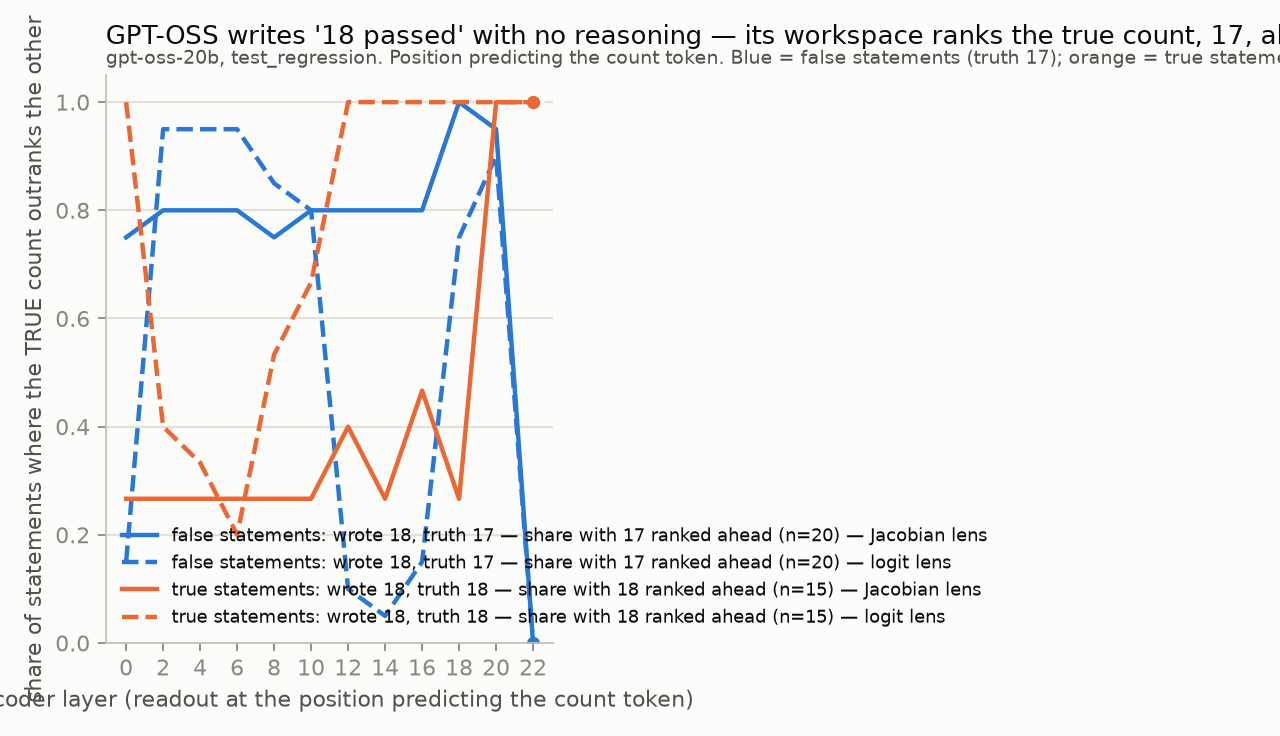
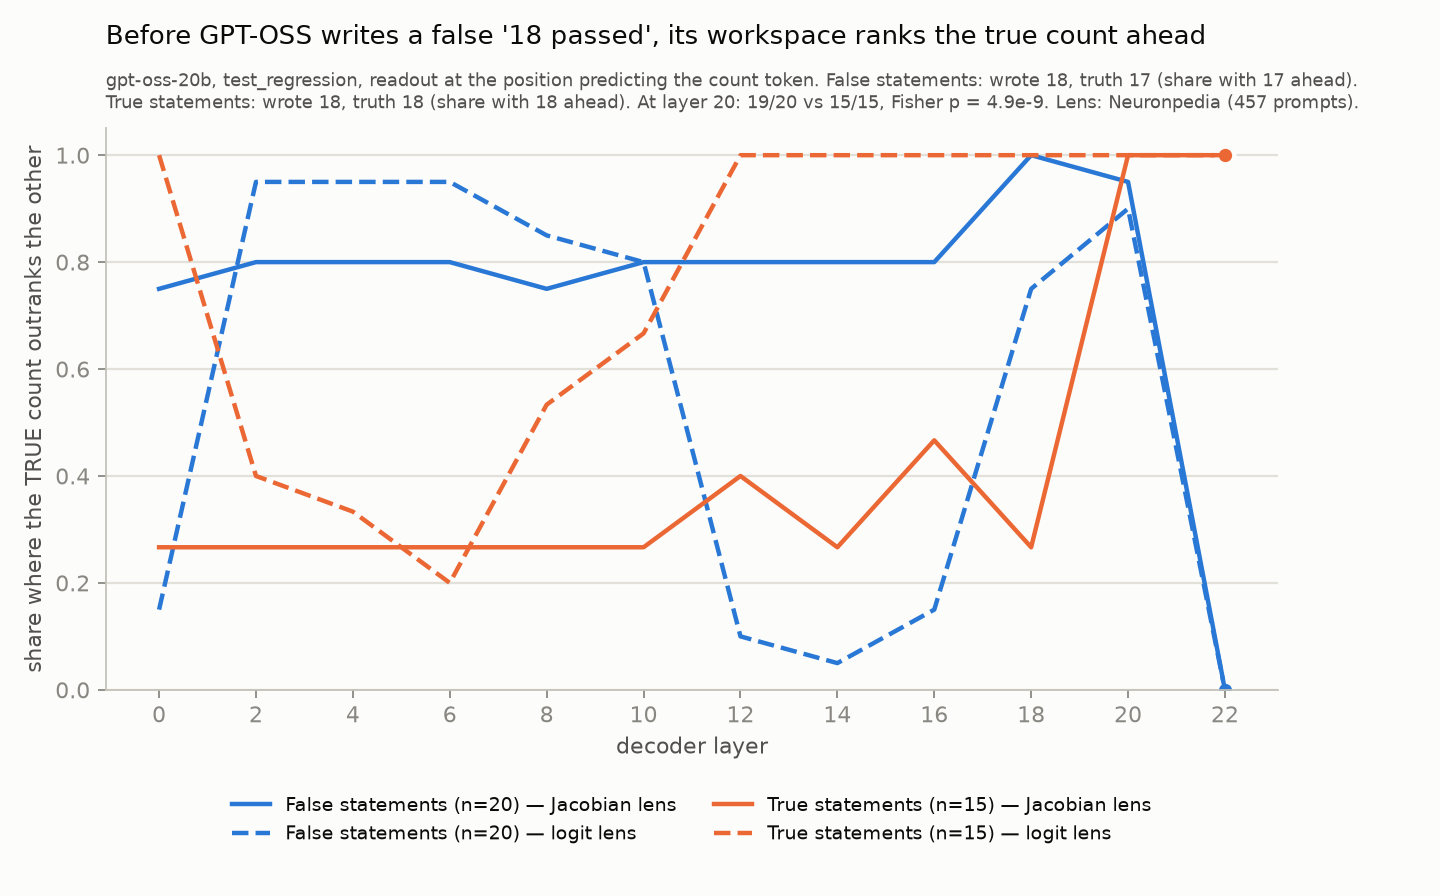
fig_c_true_count: fix clipped title/x-label, legend moved below plot

diff --git a/experiments/gptoss_lens_c_summary.py b/experiments/gptoss_lens_c_summary.py
@@ -32,15 +32,15 @@ print("' failed' rank at the position after the count (median, J-lens L20): fals
 # ---- figure: per-layer fraction of statements where the TRUE count is ranked ahead, false vs true statements ----
 S1,S2="#2a78d6","#eb6834"; SURF,INK,INK2,MUTED,GRID,AXIS="#fcfcfb","#0b0b0b","#52514e","#898781","#e1e0d9","#c3c2b7"
 plt.rcParams.update({"font.family":"sans-serif","font.size":10,"axes.edgecolor":AXIS,"axes.labelcolor":INK2,"xtick.color":MUTED,"ytick.color":MUTED,"text.color":INK})
-fig,ax=plt.subplots(figsize=(8,4.6),dpi=160); ax.set_facecolor(SURF); fig.set_facecolor(SURF)
+fig,ax=plt.subplots(figsize=(9,5.6),dpi=160); ax.set_facecolor(SURF); fig.set_facecolor(SURF)
 for grp,col,label,key,n in (("false",S1,"false statements: wrote 18, truth 17 — share with 17 ranked ahead","false_stmts_with_17_ahead",len(F)),("true",S2,"true statements: wrote 18, truth 18 — share with 18 ranked ahead","true_stmts_with_18_ahead",len(T))):
     for kind,dashed in (("j",False),("ll",True)):
         ys=[int(out["per_layer"][str(l)][kind][key].split("/")[0])/n for l in layers]
-        ax.plot(layers,ys,color=col,linewidth=2,linestyle="--" if dashed else "-",label=f"{label} (n={n}) — {'Jacobian lens' if kind=='j' else 'logit lens'}")
+        ax.plot(layers,ys,color=col,linewidth=2,linestyle="--" if dashed else "-",label=f"{'False' if grp=='false' else 'True'} statements (n={n}) — {'Jacobian lens' if kind=='j' else 'logit lens'}")
         if not dashed: ax.plot([layers[-1]],[ys[-1]],marker="o",markersize=8,markerfacecolor=col,markeredgecolor=SURF,markeredgewidth=2,linestyle="none")
-ax.set_ylim(0,1.05); ax.set_xticks(layers); ax.set_xlabel("decoder layer (readout at the position predicting the count token)"); ax.set_ylabel("share of statements where the TRUE count outranks the other")
+ax.set_ylim(0,1.05); ax.set_xticks(layers); ax.set_xlabel("decoder layer"); ax.set_ylabel("share where the TRUE count outranks the other")
 for s in ("top","right"): ax.spines[s].set_visible(False)
-ax.grid(True,axis="y",color=GRID,linewidth=1); ax.set_axisbelow(True); ax.legend(frameon=False,fontsize=8,loc="lower left")
-ax.set_title("GPT-OSS writes '18 passed' with no reasoning — its workspace ranks the true count, 17, ahead", loc="left", fontsize=11.5, pad=14)
-ax.text(0,1.02,"gpt-oss-20b, test_regression. Position predicting the count token. Blue = false statements (truth 17); orange = true statements (truth 18). Lens fit by Neuronpedia (457 prompts).",transform=ax.transAxes,fontsize=8.5,color=INK2)
+ax.grid(True,axis="y",color=GRID,linewidth=1); ax.set_axisbelow(True); ax.legend(frameon=False,fontsize=8.5,loc="upper center",bbox_to_anchor=(0.5,-0.16),ncol=2)
+ax.set_title("Before GPT-OSS writes a false '18 passed', its workspace ranks the true count ahead", loc="left", fontsize=11.5, pad=38)
+ax.text(0,1.025,"gpt-oss-20b, test_regression, readout at the position predicting the count token. False statements: wrote 18, truth 17 (share with 17 ahead).\nTrue statements: wrote 18, truth 18 (share with 18 ahead). At layer 20: 19/20 vs 15/15, Fisher p = 4.9e-9. Lens: Neuronpedia (457 prompts).",transform=ax.transAxes,fontsize=8.2,color=INK2,va="bottom")
 fig.tight_layout(); (ROOT/"experiments"/"figures").mkdir(exist_ok=True); fig.savefig(ROOT/"experiments"/"figures"/"fig_c_true_count.png"); print("wrote figures/fig_c_true_count.png")
